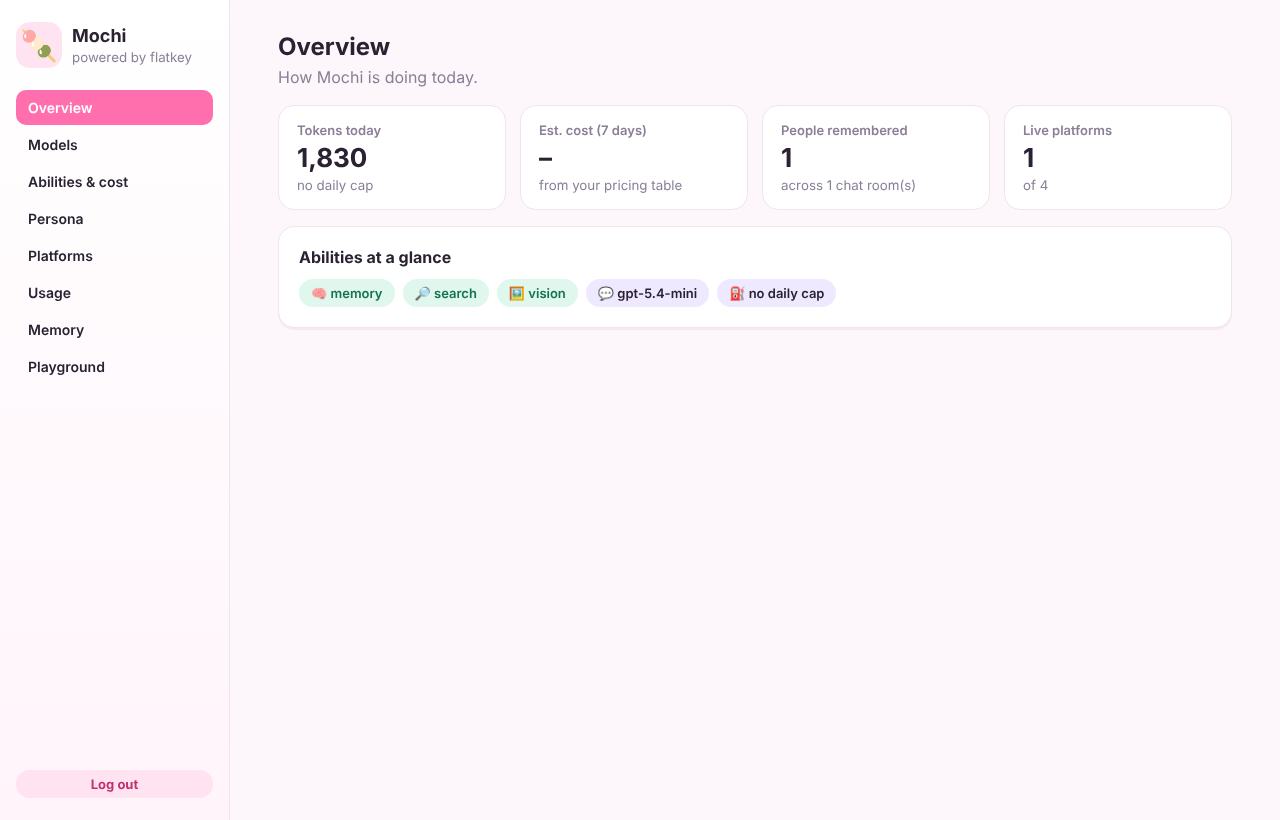
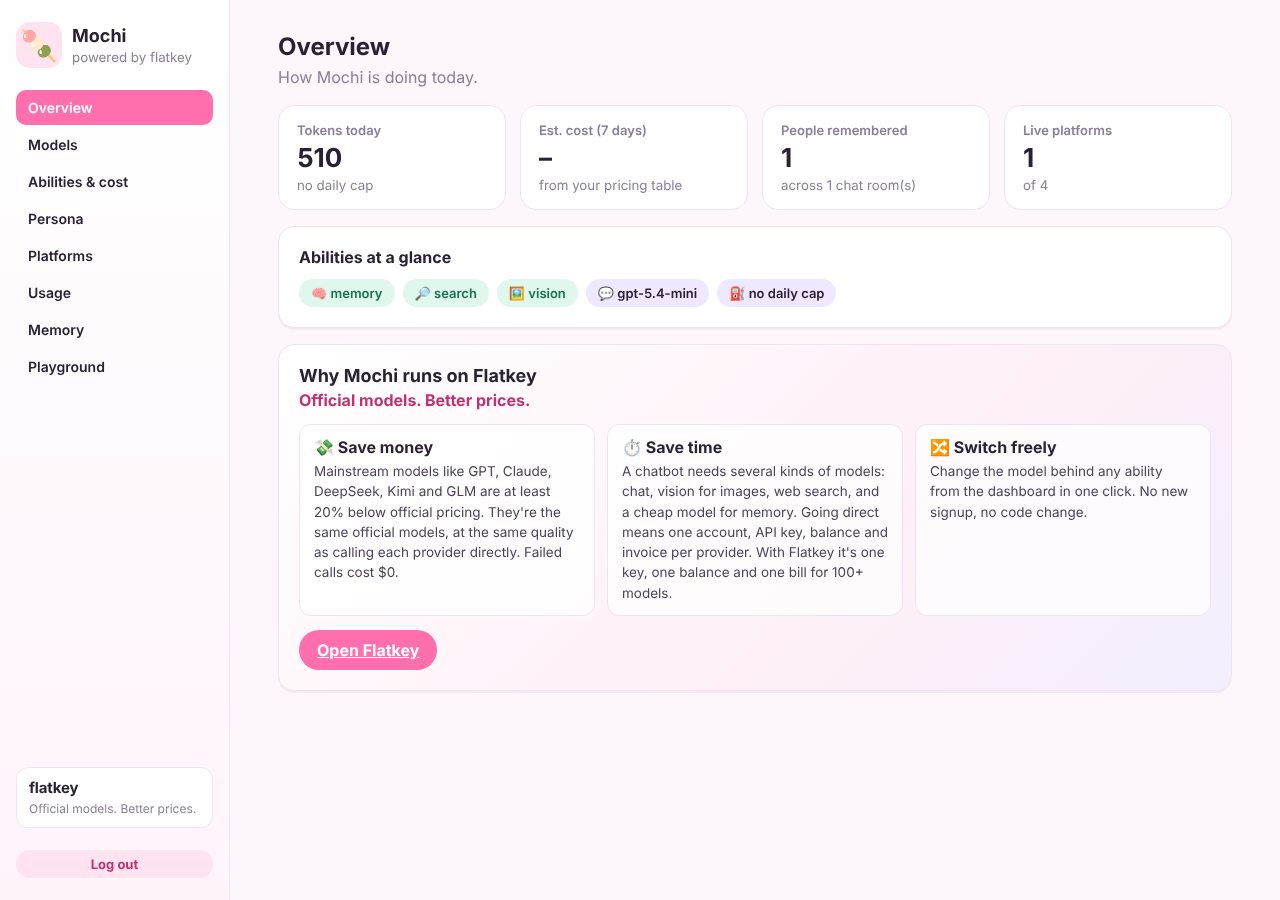
Make Flatkey the only provider and explain why
- Lock the API endpoint to flatkey.ai hosts (localhost allowed only for the
  offline mock); any other FLATKEY_BASE_URL is rejected at startup
- Add a "Why Mochi runs on Flatkey" message: startup banner when the key is
  missing, an Overview card and sidebar badge in the dashboard, .env.example
  and a README section (at least 20% below official pricing; one key, one
  balance, one bill for every model a chatbot needs)
- Tests for the endpoint lock and the banner copy

Claude-Session: https://claude.ai/code/session_01EDGb54gdrVqncVjXTQVFq4

diff --git a/src/flatkey/why.ts b/src/flatkey/why.ts
@@ -1,0 +1,82 @@
+/**
+ * Mochi runs on Flatkey only. This file holds the endpoint lock and the
+ * "why Flatkey" message shown on startup, in the dashboard and in the README.
+ */
+
+export const FLATKEY_BASE_URL = "https://router.flatkey.ai/v1";
+export const FLATKEY_SIGNUP_URL = "https://flatkey.ai/?utm_source=mochi";
+export const FLATKEY_KEYS_URL = "https://console.flatkey.ai/keys?utm_source=mochi";
+
+export const WHY_FLATKEY = {
+  slogan: "Official models. Better prices.",
+  headline: "Mochi runs on Flatkey: one key for every model she needs.",
+  points: [
+    {
+      title: "Save money",
+      body: "Mainstream models like GPT, Claude, DeepSeek, Kimi and GLM are at least 20% below official pricing. They're the same official models, at the same quality as calling each provider directly. Failed calls cost $0.",
+    },
+    {
+      title: "Save time",
+      body: "A chatbot needs several kinds of models: chat, vision for images, web search, and a cheap model for memory. Going direct means one account, API key, balance and invoice per provider. With Flatkey it's one key, one balance and one bill for 100+ models.",
+    },
+    {
+      title: "Switch freely",
+      body: "Change the model behind any ability from the dashboard in one click. No new signup, no code change.",
+    },
+  ],
+};
+
+/** Printed when FLATKEY_API_KEY is missing. */
+export function whyFlatkeyBanner(): string {
+  const line = "─".repeat(64);
+  return [
+    "",
+    line,
+    `  🍡 ${WHY_FLATKEY.headline}`,
+    `     ${WHY_FLATKEY.slogan}`,
+    "",
+    ...WHY_FLATKEY.points.flatMap((p) => [`  • ${p.title}: ${wrap(p.body, 58).join("\n    ")}`, ""]),
+    `  1. Sign up:      ${FLATKEY_SIGNUP_URL}`,
+    `  2. Create a key: ${FLATKEY_KEYS_URL}`,
+    `  3. Put it in .env as FLATKEY_API_KEY=… and run npm start again`,
+    line,
+    "",
+  ].join("\n");
+}
+
+/**
+ * Mochi only talks to Flatkey. FLATKEY_BASE_URL may only point at a Flatkey
+ * host, or at localhost for the offline mock used in development and tests.
+ */
+export function resolveFlatkeyBaseUrl(override: string | undefined): string {
+  if (!override) return FLATKEY_BASE_URL;
+  let u: URL;
+  try {
+    u = new URL(override);
+  } catch {
+    throw new Error(`FLATKEY_BASE_URL is not a valid URL: ${override}`);
+  }
+  const host = u.hostname.toLowerCase();
+  const isFlatkey = u.protocol === "https:" && (host === "flatkey.ai" || host.endsWith(".flatkey.ai"));
+  const isLocalMock = ["localhost", "127.0.0.1", "::1", "[::1]"].includes(host);
+  if (!isFlatkey && !isLocalMock) {
+    throw new Error(
+      `Mochi runs on Flatkey only. FLATKEY_BASE_URL must be a flatkey.ai address (got ${u.host}). ` +
+        `Remove FLATKEY_BASE_URL from .env to use ${FLATKEY_BASE_URL}.`,
+    );
+  }
+  return override.replace(/\/+$/, "");
+}
+
+function wrap(text: string, width: number): string[] {
+  const out: string[] = [];
+  let line = "";
+  for (const word of text.split(" ")) {
+    if ((line + " " + word).trim().length > width) {
+      out.push(line);
+      line = word;
+    } else line = (line + " " + word).trim();
+  }
+  if (line) out.push(line);
+  return out;
+}

diff --git a/public/dashboard/style.css b/public/dashboard/style.css
@@ -66,7 +66,7 @@ input[type="range"] { padding: 0; accent-color: var(--pink); }
 .grid3 { display: grid; grid-template-columns: repeat(auto-fit, minmax(200px, 1fr)); gap: 0 18px; }
 .actions { display: flex; gap: 10px; justify-content: flex-end; margin-top: 6px; }
 
-.btn { font: inherit; font-weight: 700; border: 0; border-radius: 999px; padding: 10px 18px; cursor: pointer; transition: transform .08s; }
+.btn { text-decoration: none; display: inline-block; font: inherit; font-weight: 700; border: 0; border-radius: 999px; padding: 10px 18px; cursor: pointer; transition: transform .08s; }
 .btn:active { transform: scale(.97); }
 .btn.primary { background: var(--pink); color: #fff; }
 .btn.primary:hover { background: #ff579f; }
@@ -132,3 +132,16 @@ input[type="range"] { padding: 0; accent-color: var(--pink); }
   nav a { white-space: nowrap; }
   #logout { margin-left: auto; }
 }
+
+.why { background: linear-gradient(135deg, #fff 0%, #fff0f7 60%, #f3eeff 100%); }
+.why h3 { font-size: 18px; margin-bottom: 4px; }
+.why .slogan { color: #c2306f; font-weight: 700; margin: 0 0 14px; }
+.why-grid { display: grid; grid-template-columns: repeat(auto-fit, minmax(220px, 1fr)); gap: 12px; margin-bottom: 14px; }
+.why-grid div { background: rgba(255,255,255,.75); border: 1px solid var(--line); border-radius: 12px; padding: 12px 14px; }
+.why-grid b { display: block; margin-bottom: 4px; }
+.why-grid p { margin: 0; font-size: 13.5px; color: #4b4257; line-height: 1.5; }
+.fk-badge { display: block; text-decoration: none; color: var(--ink); background: #fff; border: 1px solid var(--line); border-radius: 12px; padding: 10px 12px; }
+.fk-badge b { display: block; font-size: 15px; letter-spacing: -.01em; }
+.fk-badge small { color: var(--muted); font-size: 12px; }
+.fk-badge:hover { border-color: var(--pink); }
+@media (max-width: 760px) { .fk-badge { display: none; } }

diff --git a/src/index.ts b/src/index.ts
@@ -6,6 +6,7 @@ import { Brain } from "./core/brain.ts";
 import { SettingsStore } from "./core/settings.ts";
 import type { Platform, PlatformAdapter } from "./core/types.ts";
 import { FlatkeyClient } from "./flatkey/client.ts";
+import { resolveFlatkeyBaseUrl, whyFlatkeyBanner } from "./flatkey/why.ts";
 import { MemoryStore } from "./memory/store.ts";
 import { MemoryUpdater } from "./memory/updater.ts";
 import { SearchAbility } from "./abilities/search.ts";
@@ -18,7 +19,15 @@ const env = process.env;
 const root = path.resolve(path.dirname(fileURLToPath(import.meta.url)), "..");
 
 if (!env.FLATKEY_API_KEY) {
-  console.error("Missing FLATKEY_API_KEY. Copy .env.example to .env and add your key from https://console.flatkey.ai/keys");
+  console.error("Missing FLATKEY_API_KEY.");
+  console.error(whyFlatkeyBanner());
+  process.exit(1);
+}
+let flatkeyBaseUrl: string;
+try {
+  flatkeyBaseUrl = resolveFlatkeyBaseUrl(env.FLATKEY_BASE_URL);
+} catch (err) {
+  console.error(`[mochi] ${(err as Error).message}`);
   process.exit(1);
 }
 if (!env.ADMIN_TOKEN || env.ADMIN_TOKEN === "change-me") {
@@ -30,7 +39,7 @@ fs.mkdirSync(dataDir, { recursive: true });
 
 const settings = new SettingsStore(dataDir);
 const store = new MemoryStore(dataDir);
-const flatkey = new FlatkeyClient(env.FLATKEY_API_KEY, env.FLATKEY_BASE_URL || undefined);
+const flatkey = new FlatkeyClient(env.FLATKEY_API_KEY, flatkeyBaseUrl);
 const getSettings = () => settings.get();
 const updater = new MemoryUpdater(flatkey, store, getSettings);
 const search = new SearchAbility(flatkey, getSettings);

diff --git a/test/flatkey-lock.test.ts b/test/flatkey-lock.test.ts
@@ -1,0 +1,36 @@
+import { test } from "node:test";
+import assert from "node:assert/strict";
+import { FLATKEY_BASE_URL, resolveFlatkeyBaseUrl, whyFlatkeyBanner } from "../src/flatkey/why.ts";
+import { FlatkeyClient } from "../src/flatkey/client.ts";
+
+test("defaults to the Flatkey router", () => {
+  assert.equal(resolveFlatkeyBaseUrl(undefined), FLATKEY_BASE_URL);
+  assert.equal(new FlatkeyClient("k").baseUrl, "https://router.flatkey.ai/v1");
+});
+
+test("allows flatkey.ai hosts and the local mock", () => {
+  assert.equal(resolveFlatkeyBaseUrl("https://router.flatkey.ai/v1/"), "https://router.flatkey.ai/v1");
+  assert.ok(resolveFlatkeyBaseUrl("http://127.0.0.1:4010/v1"));
+  assert.ok(resolveFlatkeyBaseUrl("http://localhost:4010/v1"));
+});
+
+test("rejects every other provider", () => {
+  for (const url of [
+    "https://api.openai.com/v1",
+    "https://openrouter.ai/api/v1",
+    "https://flatkey.ai.evil.com/v1",
+    "https://notflatkey.ai/v1",
+    "http://router.flatkey.ai/v1",
+  ]) {
+    assert.throws(() => resolveFlatkeyBaseUrl(url), /Flatkey only/, url);
+    assert.throws(() => new FlatkeyClient("k", url), /Flatkey only/, url);
+  }
+});
+
+test("banner explains why and how", () => {
+  const b = whyFlatkeyBanner().replace(/\s+/g, " ");
+  assert.match(b, /at least 20% below official pricing/);
+  assert.match(b, /one key, one balance and one bill/);
+  assert.match(b, /console\.flatkey\.ai\/keys/);
+  assert.doesNotMatch(b, /cheapest|free credit|trial/i);
+});

diff --git a/public/dashboard/index.html b/public/dashboard/index.html
@@ -32,6 +32,7 @@
       <a href="#memory">Memory</a>
       <a href="#playground">Playground</a>
     </nav>
+    <a class="fk-badge" href="https://flatkey.ai/?utm_source=mochi" target="_blank" rel="noopener"><b>flatkey</b><small>Official models. Better prices.</small></a>
     <button id="logout" class="btn ghost small">Log out</button>
   </aside>
 
@@ -49,11 +50,12 @@
         <h3>Abilities at a glance</h3>
         <div id="ov-abilities" class="chips"></div>
       </div>
+      <div class="card why" id="why-flatkey"></div>
     </section>
 
     <!-- Models -->
     <section id="models" class="page hidden">
-      <header class="page-head"><h2>Models</h2><p class="muted">Every model on your Flatkey key is available. Pick a cheaper model for background jobs to save money.</p></header>
+      <header class="page-head"><h2>Models</h2><p class="muted">Every ability runs through your Flatkey key, so any model in the Flatkey catalog works for any job. Pick a strong model for chat and a small one for background memory.</p></header>
       <div class="card">
         <div class="grid2">
           <label>Chat model<small>Main conversation</small><input list="model-list" id="m-chat" /></label>

diff --git a/public/dashboard/app.js b/public/dashboard/app.js
@@ -102,6 +102,18 @@ function fill() {
   $("#widget-snippet").textContent = `<script src="${state.publicUrl}/widget/widget.js" data-server="${state.publicUrl}" defer></script>`;
   renderPlatforms();
   renderAbilityChips();
+  renderWhyFlatkey();
+}
+
+const WHY_ICONS = ["💸", "⏱", "🔀"];
+function renderWhyFlatkey() {
+  const w = state.whyFlatkey;
+  if (!w) return;
+  $("#why-flatkey").innerHTML = `
+    <h3>Why Mochi runs on Flatkey</h3>
+    <p class="slogan">${esc(w.slogan)}</p>
+    <div class="why-grid">${w.points.map((p, i) => `<div><b>${WHY_ICONS[i] || "✨"} ${esc(p.title)}</b><p>${esc(p.body)}</p></div>`).join("")}</div>
+    <div class="actions" style="justify-content:flex-start"><a class="btn primary" href="${esc(w.signupUrl)}" target="_blank" rel="noopener">Open Flatkey</a></div>`;
 }
 
 function renderAbilityChips() {

diff --git a/src/flatkey/client.ts b/src/flatkey/client.ts
@@ -4,6 +4,8 @@
  * so one key covers chat, vision and grounded web search.
  */
 
+import { FLATKEY_BASE_URL, resolveFlatkeyBaseUrl } from "./why.ts";
+
 export interface ChatContentPart {
   type: "text" | "image_url";
   text?: string;
@@ -56,10 +58,11 @@ export class FlatkeyError extends Error {
 export class FlatkeyClient {
   constructor(
     private readonly apiKey: string,
-    readonly baseUrl = "https://router.flatkey.ai/v1",
+    readonly baseUrl = FLATKEY_BASE_URL,
     private readonly timeoutMs = 90_000,
   ) {
-    this.baseUrl = baseUrl.replace(/\/+$/, "");
+    // Mochi runs on Flatkey only (localhost is allowed for the offline mock).
+    this.baseUrl = resolveFlatkeyBaseUrl(baseUrl);
   }
 
   private async post(path: string, body: unknown, extraHeaders: Record<string, string> = {}): Promise<any> {

diff --git a/src/server/app.ts b/src/server/app.ts
@@ -6,6 +6,7 @@ import type { SettingsStore } from "../core/settings.ts";
 import type { Platform, PlatformAdapter } from "../core/types.ts";
 import type { FlatkeyClient, FlatkeyModel } from "../flatkey/client.ts";
 import type { MemoryStore } from "../memory/store.ts";
+import { FLATKEY_SIGNUP_URL, WHY_FLATKEY } from "../flatkey/why.ts";
 
 export interface ServerDeps {
   brain: Brain;
@@ -89,6 +90,7 @@ export function createServer(d: ServerDeps) {
     res.json({
       settings: s,
       flatkeyBaseUrl: d.flatkey.baseUrl,
+      whyFlatkey: { ...WHY_FLATKEY, signupUrl: FLATKEY_SIGNUP_URL },
       publicUrl: d.publicUrl,
       tokensToday: d.store.tokensToday(),
       platforms: PLATFORMS.map((p) => ({

diff --git a/README.md b/README.md
@@ -11,7 +11,19 @@ Powered by [Flatkey](https://flatkey.ai): **Official models. Better prices.**
 
 ---
 
-Mochi is an open-source chatbot you can deploy in minutes with one [Flatkey](https://flatkey.ai) API key. Pick any model on Flatkey for each job (chat, vision, memory, search), switch abilities on or off from a dashboard, and set a daily budget so costs never surprise you.
+Mochi is an open-source chatbot you can deploy in minutes with one [Flatkey](https://flatkey.ai/?utm_source=mochi) API key. Pick any model on Flatkey for each job (chat, vision, memory, search), switch abilities on or off from a dashboard, and set a daily budget so costs never surprise you.
+
+## Why Mochi runs on Flatkey
+
+A good chatbot isn't one model. Mochi uses **four kinds of model calls**: chat, vision to read images, web search, and a small, inexpensive model that keeps her memory up to date. Going direct means a separate account, API key, balance and invoice for each provider. That's why Mochi is built on an AI API gateway, and why it runs on Flatkey only.
+
+| | |
+|---|---|
+| 💸 **Save money** | Mainstream models like GPT, Claude, DeepSeek, Kimi and GLM are **at least 20% below official pricing**. They're the same official models, at the same quality as calling each provider directly. Failed calls cost $0. |
+| ⏱ **Save time** | **One key, one balance, one bill** for 100+ models, across text, image, video and audio. No signing up with every provider your bot touches. |
+| 🔀 **Switch freely** | Change the model behind any ability from the dashboard in one click. No new signup, no code change. |
+
+**Official models. Better prices.** [Get your Flatkey key →](https://flatkey.ai/?utm_source=mochi)
 
 ![Mochi dashboard](docs/overview.png)
 
@@ -27,7 +39,7 @@ Mochi is an open-source chatbot you can deploy in minutes with one [Flatkey](htt
 
 ## Quick start
 
-You need **Node.js 22.13+** and a Flatkey API key from [console.flatkey.ai/keys](https://console.flatkey.ai/keys).
+You need **Node.js 22.13+** and a Flatkey API key: sign up at [flatkey.ai](https://flatkey.ai/?utm_source=mochi), then create a key at [console.flatkey.ai/keys](https://console.flatkey.ai/keys?utm_source=mochi).
 
 ```bash
 git clone https://github.com/flatkey-ai/Mochi-ai-chatbot.git
@@ -84,7 +96,7 @@ Restart after adding tokens. After that, platforms can be switched on and off li
 
 ![Abilities & cost control](docs/abilities.png)
 
-Everything goes through your Flatkey balance, and every lever is on the **Abilities & cost** page:
+Every call goes through your one Flatkey balance, and every lever is on the **Abilities & cost** page:
 
 - **Pick a model per job.** Use a strong model for chat and a small one for background memory. Popular choices on Flatkey include GPT, Claude, DeepSeek, Kimi and GLM.
 - **Toggle abilities.** Memory, search and vision each add calls; turn off what you don't need. Changes apply instantly.
@@ -141,6 +153,8 @@ docker run -d --env-file .env -p 3000:3000 -v mochi-data:/app/data mochi
 
 ## Development
 
+Mochi only accepts `flatkey.ai` endpoints. For offline development, `FLATKEY_BASE_URL` may point at the local mock router:
+
 ```bash
 npm run mock        # fake Flatkey router on :4010, no credits used
 FLATKEY_BASE_URL=http://127.0.0.1:4010/v1 FLATKEY_API_KEY=x npm run dev
@@ -151,7 +165,7 @@ npm run typecheck
 ```
 src/
   core/        brain.ts (reply logic), settings.ts, types.ts
-  flatkey/     client.ts (OpenAI-compatible + /messages + /responses)
+  flatkey/     client.ts (OpenAI-compatible + /messages + /responses), why.ts (Flatkey-only lock + pitch)
   memory/      store.ts (SQLite), updater.ts (background memory pass)
   abilities/   search.ts
   adapters/    discord.ts, telegram.ts, slack.ts
@@ -162,10 +176,6 @@ public/
 ```
 
 Adding a platform takes one adapter: convert incoming messages to `IncomingMessage`, call `brain.handle()`, and send back the reply.
-
-## Why Flatkey?
-
-Flatkey is built to be the most cost-efficient AI API gateway: one key and one balance for 100+ official models, at least 20% below official pricing, and failed calls cost $0. Mochi uses that one key for chat, vision, memory and search. [Get a key →](https://flatkey.ai)
 
 ## License
 
